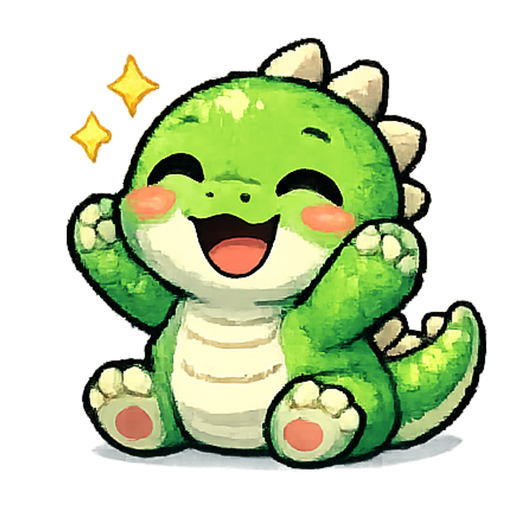
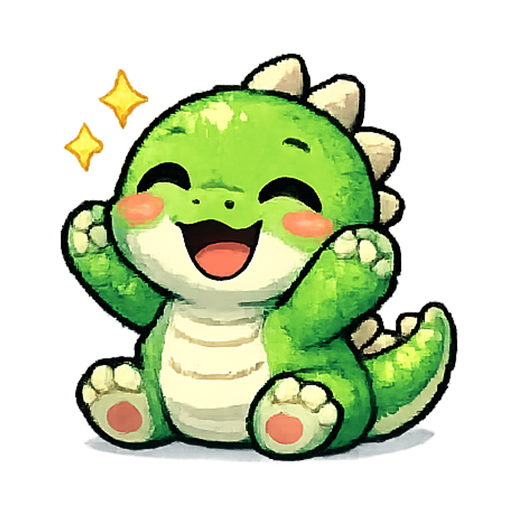
Added custom daily water goals

diff --git a/gamified-habit-tracker/src/components/water/DualWheel.jsx b/gamified-habit-tracker/src/components/water/DualWheel.jsx
@@ -1,0 +1,56 @@
+import { useState, useRef, useEffect } from 'react'
+
+const ITEM_HEIGHT = 56
+const PAD_COUNT   = 2
+
+export function DualWheel({ amounts, defaultValue, onConfirm, confirmLabel, disabled }) {
+  const startIdx    = Math.max(0, amounts.indexOf(defaultValue ?? amounts[0]))
+  const [selected, setSelected] = useState(amounts[startIdx])
+
+  const listRef  = useRef(null)
+  const timer    = useRef(null)
+
+  // Scroll to default on mount
+  useEffect(() => {
+    if (!listRef.current) return
+    listRef.current.scrollTop = startIdx * ITEM_HEIGHT
+  }, [])
+
+  function handleScroll() {
+    clearTimeout(timer.current)
+    timer.current = setTimeout(() => {
+      if (!listRef.current) return
+      const raw     = Math.round(listRef.current.scrollTop / ITEM_HEIGHT)
+      const clamped = Math.max(0, Math.min(raw, amounts.length - 1))
+      listRef.current.scrollTo({ top: clamped * ITEM_HEIGHT, behavior: 'smooth' })
+      setSelected(amounts[clamped])
+    }, 80)
+  }
+
+  return (
+    <>
+      <div className="dual-wheel">
+        <div className="wheel-container">
+          <div className="wheel-highlight" />
+          <ul className="wheel-list" ref={listRef} onScroll={handleScroll}>
+            {Array.from({ length: PAD_COUNT }).map((_, i) => <li key={`p${i}`} className="wheel-pad" />)}
+            {amounts.map((val) => (
+              <li key={val} className={`wheel-item ${val === selected ? 'wheel-item--selected' : ''}`}>
+                {val} ml
+              </li>
+            ))}
+            {Array.from({ length: PAD_COUNT }).map((_, i) => <li key={`p2${i}`} className="wheel-pad" />)}
+          </ul>
+        </div>
+      </div>
+
+      <button
+        className="wheel-log-btn"
+        onClick={() => onConfirm(selected)}
+        disabled={disabled}
+      >
+        {confirmLabel(selected)}
+      </button>
+    </>
+  )
+}

diff --git a/gamified-habit-tracker/src/components/water/WaterLogger.css b/gamified-habit-tracker/src/components/water/WaterLogger.css
@@ -98,13 +98,28 @@
   margin: 0;
 }
 
+/* ── Dual wheel row ── */
+.dual-wheel {
+  display: flex;
+  gap: var(--space-2);
+  width: 100%;
+  max-width: 280px;
+}
+
 /* ── Scroll wheel ── */
 .wheel-container {
   position: relative;
-  width: 100%;
-  max-width: 280px;
   height: 280px;   /* shows 5 items (5 × 56px) */
   overflow: hidden;
+  flex: 1;
+}
+
+.wheel-container--wide {
+  flex: 2;
+}
+
+.wheel-container--narrow {
+  flex: 1;
 }
 
 .wheel-highlight {

diff --git a/gamified-habit-tracker/src/App.jsx b/gamified-habit-tracker/src/App.jsx
@@ -4,6 +4,7 @@ import { useWaterLog } from './hooks/useWaterLog'
 import { useChallenges } from './hooks/useChallenges'
 import { WaterProgress } from './components/water/WaterProgress'
 import { WaterLogger } from './components/water/WaterLogger'
+import { GoalSetter } from './components/water/GoalSetter'
 import { XPBar } from './components/ui/XPBar'
 import { LevelUpToast } from './components/ui/LevelUpToast'
 import { StreakToast } from './components/ui/StreakToast'
@@ -189,6 +190,13 @@ function App() {
 
             <section className="home-section">
               <PetSelector activePetId={petId} onSelect={selectPet} />
+            </section>
+
+            <section className="home-section">
+              <GoalSetter
+                currentGoal={user.daily_goal_ml}
+                onGoalChange={(ml) => updateUser({ daily_goal_ml: ml })}
+              />
             </section>
 
             <section className="home-section">

diff --git a/gamified-habit-tracker/src/App.css b/gamified-habit-tracker/src/App.css
@@ -77,9 +77,9 @@
   flex: 1;
   display: flex;
   flex-direction: column;
-  gap: var(--space-6);
-  padding: var(--space-6) var(--space-5);
-  padding-bottom: calc(64px + var(--space-6) + env(safe-area-inset-bottom));
+  gap: var(--space-3);
+  padding: var(--space-3) var(--space-5);
+  padding-bottom: calc(64px + var(--space-4) + env(safe-area-inset-bottom));
   max-width: 480px;
   width: 100%;
   margin: 0 auto;